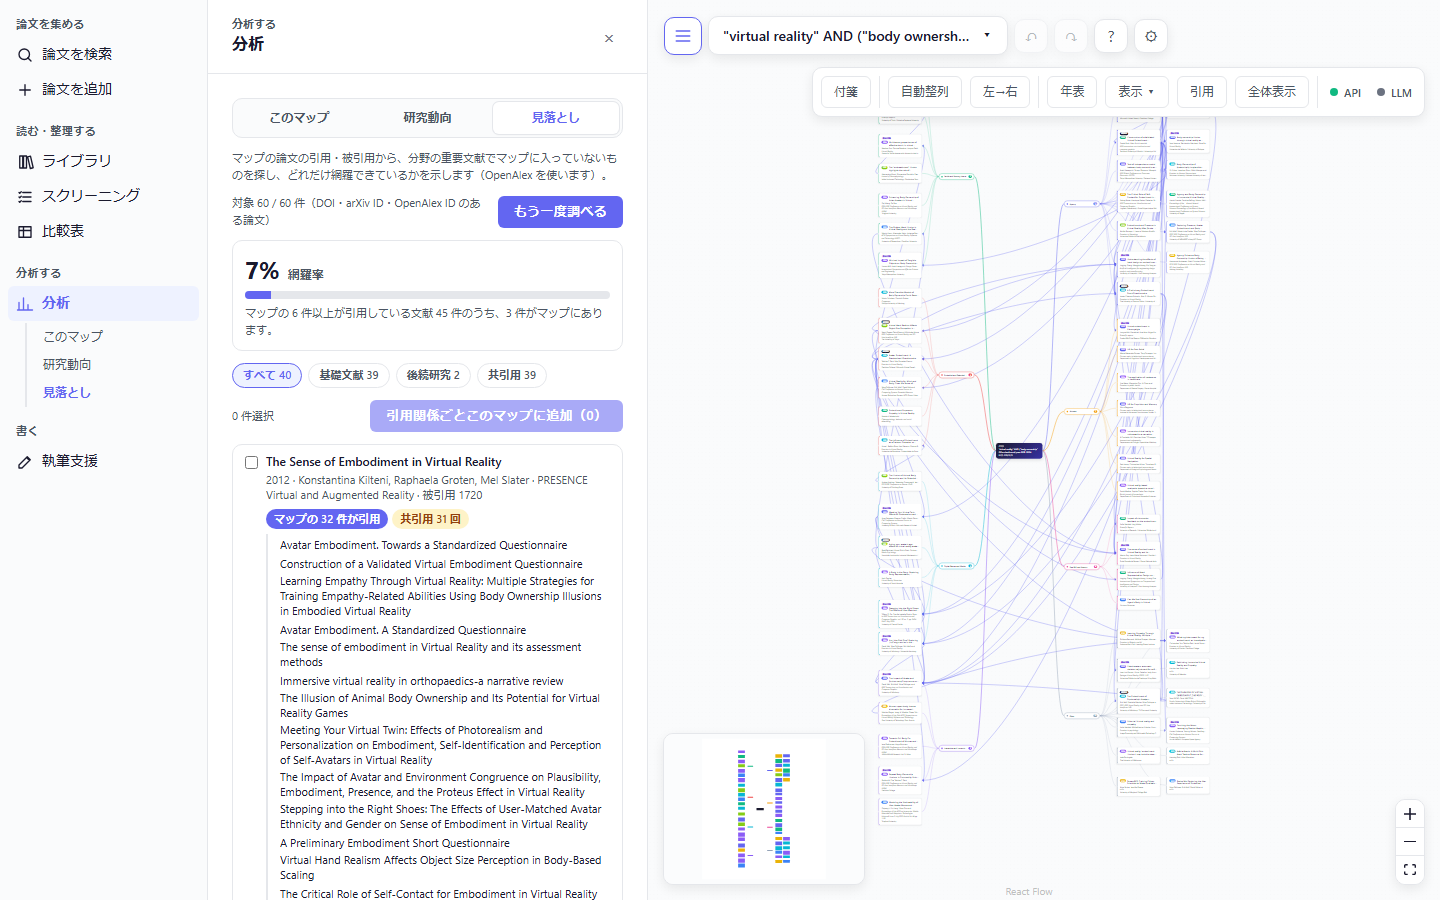
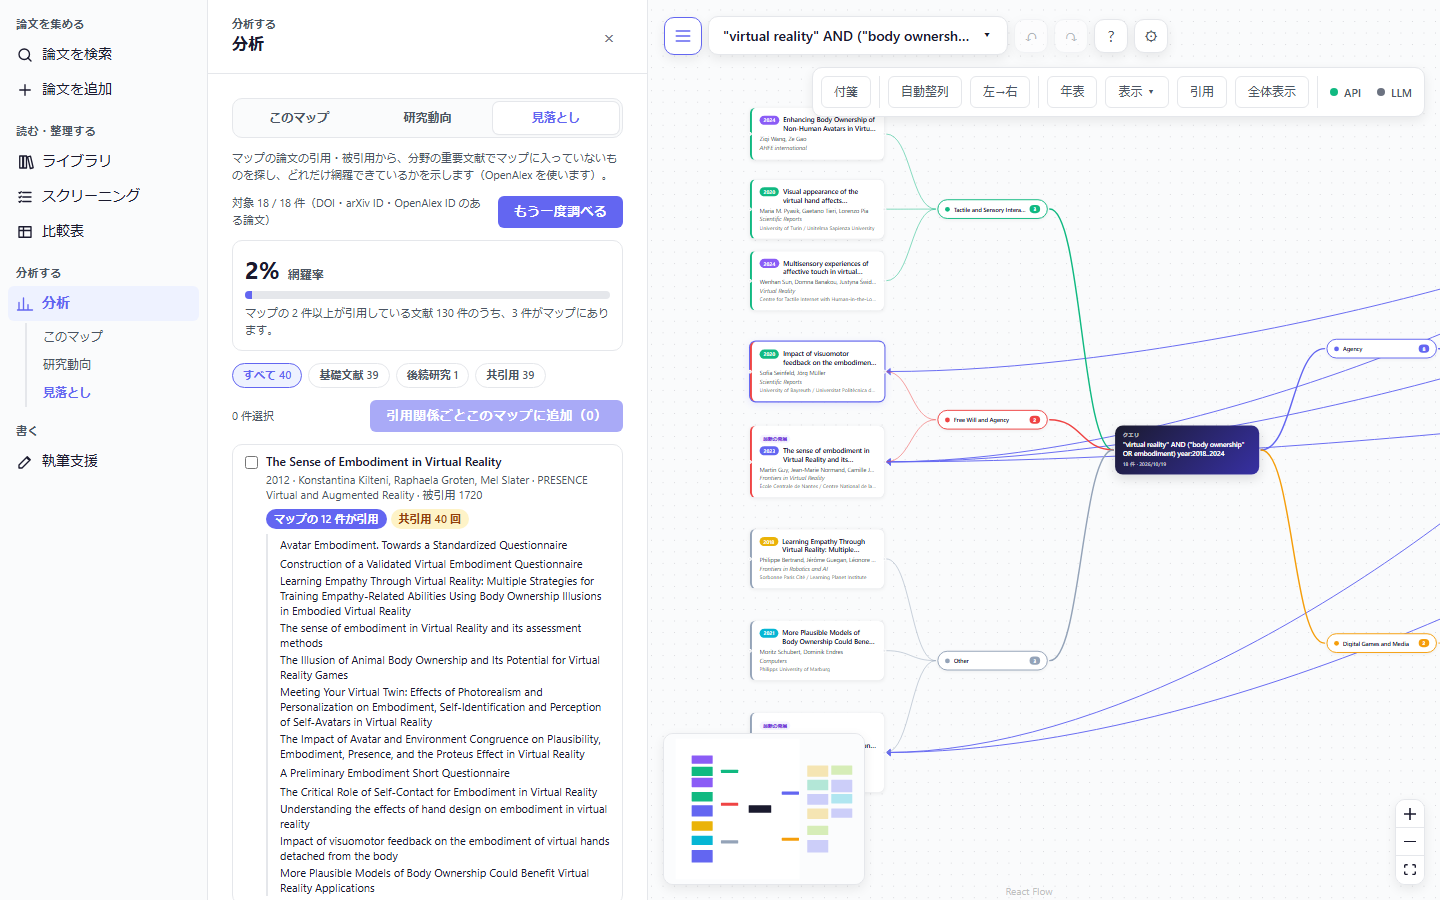
docs: refresh the README screenshots
Retakes every screenshot on the current UI (the analysis panel now has the missing-papers tab) with the same fresh profile, and describes the missing-papers example as it now appears.

diff --git a/README.md b/README.md
@@ -49,9 +49,9 @@
 
 ### 5. 見落としを確かめる
 
-「分析 › 見落とし」で、マップの論文の多くが引用しているのにマップに無い文献を探します。網羅率（よく引用される文献のうちマップにある割合）と、根拠になったマップの論文が分かり、選んで引用関係ごとマップに追加できます。下の例では、検索で集めた 60 件が共通して引用する分野の基本文献（Kilteni 2012、Botvinick 1998 など）が見つかっています。
+「分析 › 見落とし」で、マップの論文の多くが引用しているのにマップに無い文献を探します。網羅率（よく引用される文献のうちマップにある割合）と、根拠になったマップの論文が分かり、選んで引用関係ごとマップに追加できます。下の例では、検索で集めた 18 件の網羅率は 2% で、そのうち 12 件が引用している分野の基本文献 Kilteni 2012「The Sense of Embodiment in Virtual Reality」がマップに無いことが分かります。
 
-![見落としタブ。網羅率 7%、手がかり（基礎文献・後続研究・共引用）の絞り込み、候補の論文と「マップの 32 件が引用」などの理由、根拠になったマップの論文の一覧](docs/images/missing.png)
+![見落としタブ。網羅率 2%、手がかり（基礎文献・後続研究・共引用）の絞り込み、候補の論文と「マップの 12 件が引用」「共引用 40 回」の理由、根拠になったマップの論文の一覧](docs/images/missing.png)
 
 ### 6. 整理する（スクリーニング）
 
